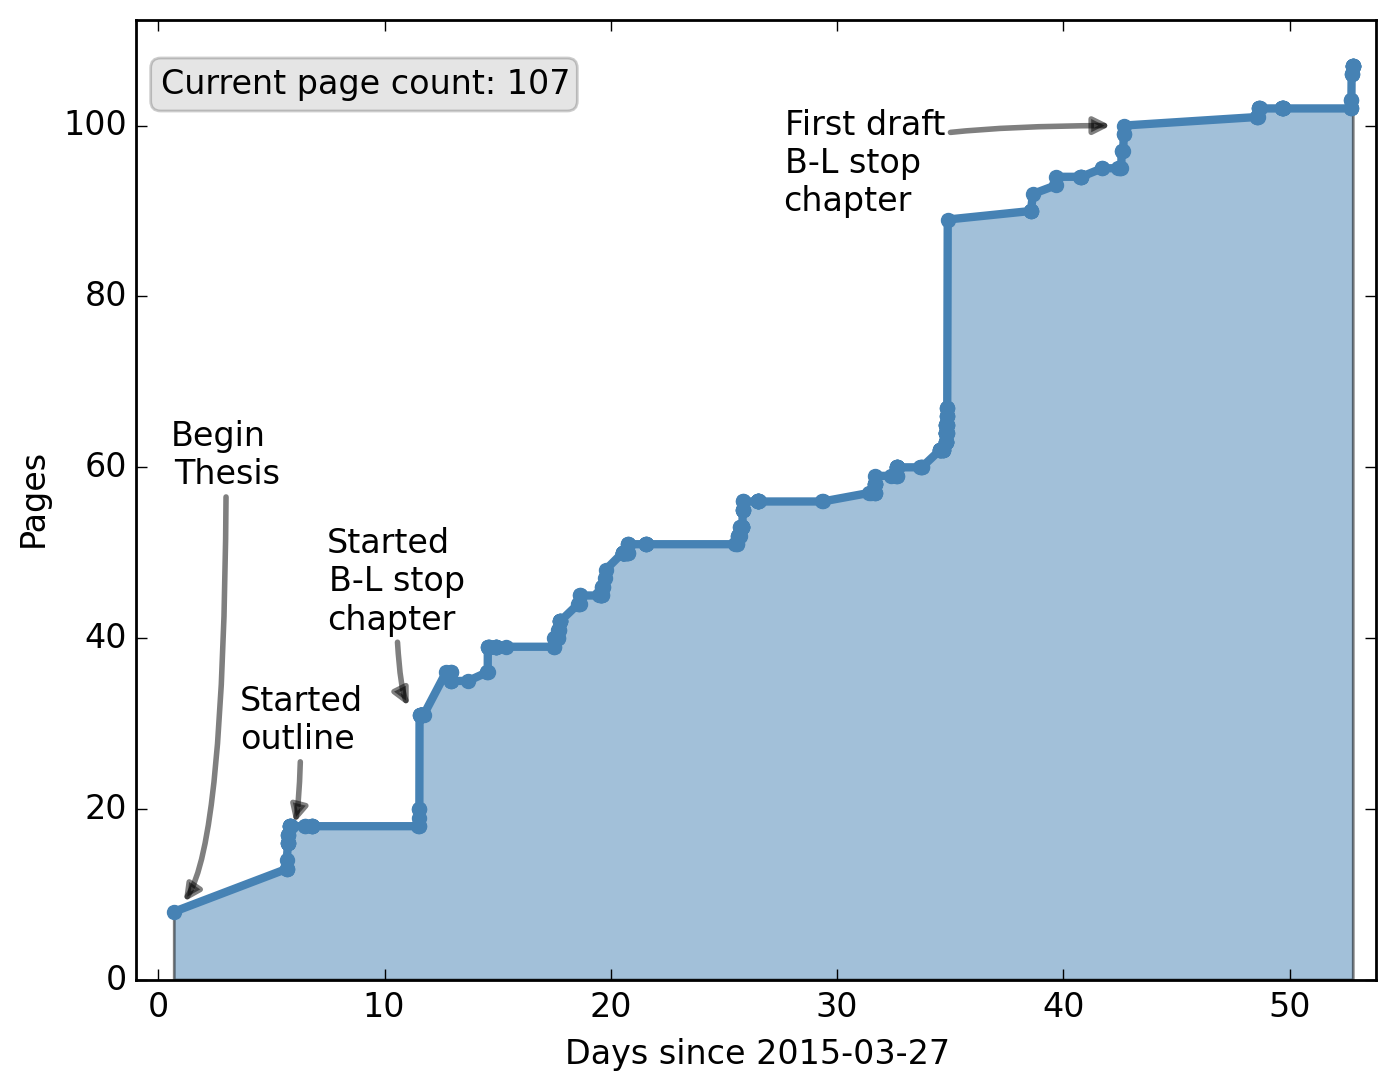
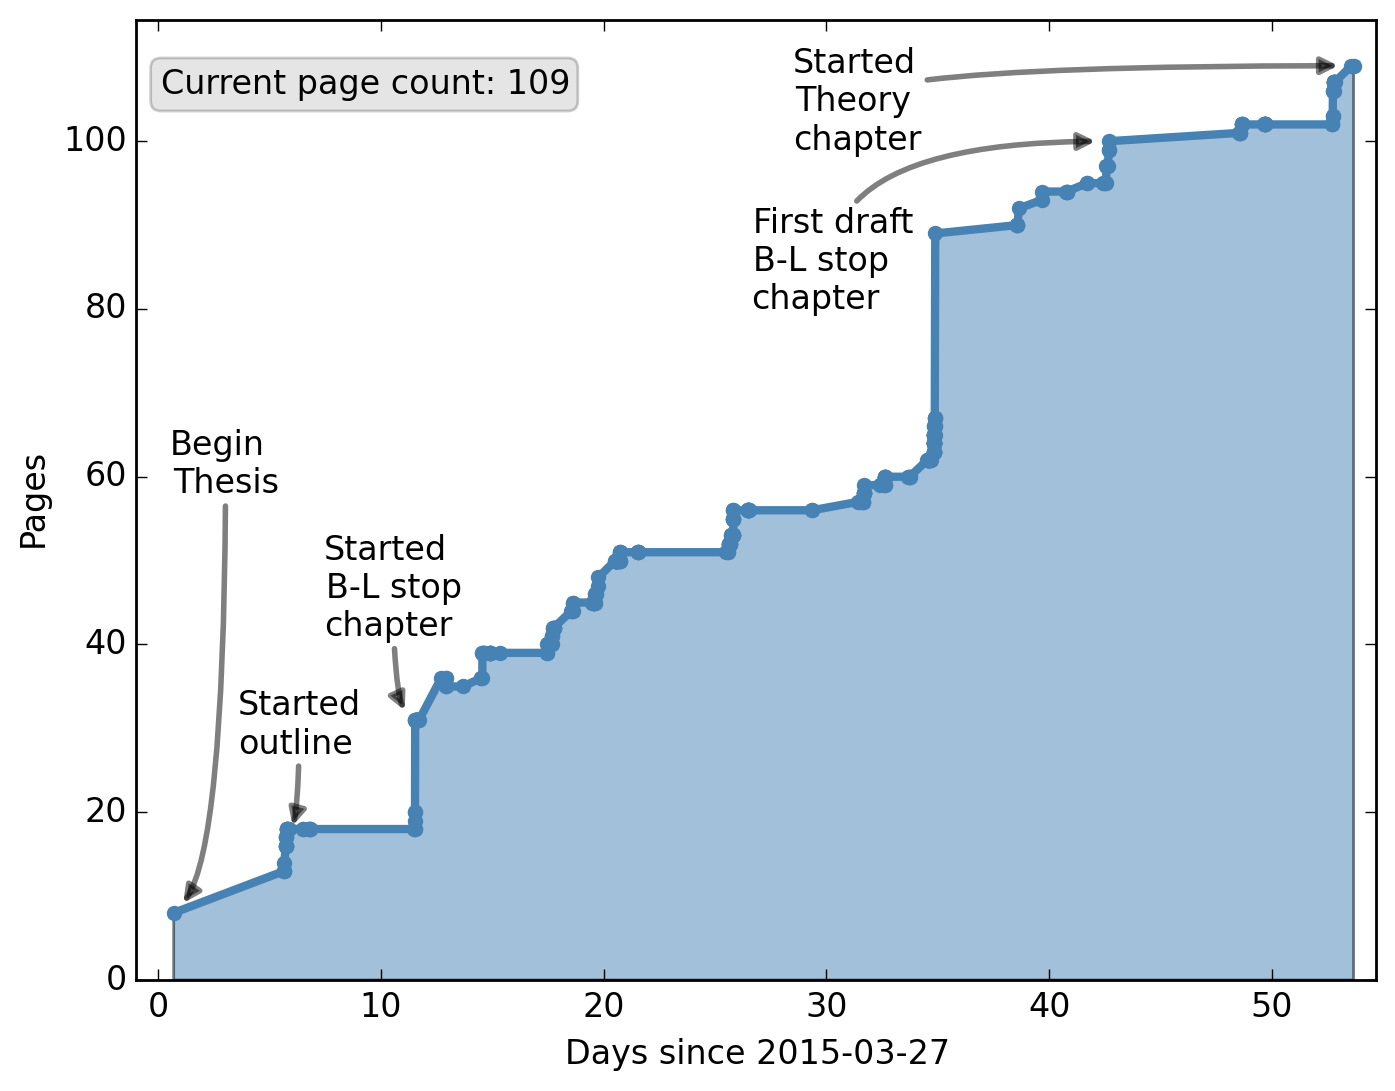
start theory section

diff --git a/tex/theory.tex b/tex/theory.tex
@@ -7,10 +7,13 @@
   writing this chapter!}
 
 {\color{red} Evelyn: 
-keep this brief by referencing as much as possible.  Certainly contrast
-assumption of RPC vs assumption of RPV for experimental searches.  Both are
-possibilities.  Stop as LSP does give unique (crazy?) signature not well
-tested by previous searches (include LQ exclusion plot).  Could have different
+keep this brief by referencing as much as possible.
+Certainly contrast assumption of RPC vs assumption of RPV for experimental
+searches.
+Both are possibilities.
+Stop as LSP does give unique (crazy?) signature not well
+tested by previous searches (include LQ exclusion plot).
+Could have different
 decay rates to e, mu, tau.
 }
 
@@ -23,9 +26,31 @@ decay rates to e, mu, tau.
 %% - - - - - - - - - - - - - - - - - - - - - - - - - - - - - - - - - - - - - - -
 \subsection{R-Parity}
 
+The extension of the Standard Model of particle physics with
+supersymmetry (SUSY)~\cite{Miyazawa:1966,Ramond:1971gb,Golfand:1971iw,
+Neveu:1971rx,Neveu:1971iv,Gervais:1971ji,Volkov:1973ix,Wess:1973kz,Wess:1974tw}
+immediately leads to processes that violate both baryon number ($B$) and
+lepton number ($L$), leading to rapid proton decay and
+lepton-number-violating processes, such as unseen decays of
+$\mu \rightarrow e\gamma$, in conflict with experimental bounds.
+A conventional assumption to prevent these processes is to impose
+conservation of $R$-parity~\cite{Fayet:1976et,Fayet:1977yc,Farrar:1978xj,
+Fayet:1979sa,Dimopoulos:1981zb},
+defined as $R=(-1)^{3(B-L)+2s}$ where $s$ is the spin of the particle.
+This has a value of $+1$ for Standard Model particles and $-1$ for
+SUSY particles.
+In this case SUSY particles are produced in pairs, and the
+lightest supersymmetric particle (LSP) is stable.
+Further, this stable LSP cannot carry electric charge or color charge without
+coming into conflict with astrophysical data.
+At the LHC, the conventional experimental signature for SUSY particles
+includes significant missing transverse momentum due to the non-interaction of
+the LSP with the detector.
+
 %% -----------------------------------------------------------------------------
 \section{B-L extension}
 \label{sec:theory_bl_extension}
+
 
 %% - - - - - - - - - - - - - - - - - - - - - - - - - - - - - - - - - - - - - - -
 \subsection{Motivation}
@@ -36,6 +61,19 @@ decay rates to e, mu, tau.
 \item Links neutrino sector to susy properties
 \end{itemize}
 }
+
+An alternative approach is to add a local symmetry $U(1)_{B-L}$ to the
+$SU(3)_C \times SU(2)_L \times U(1)_Y$ Standard Model with right-handed
+neutrinos.
+The minimal supersymmetric extension then only needs a vacuum expectation value
+for a right-handed sneutrino in order to spontaneously break the
+$B-L$ symmetry~\cite{FileviezPerez:2008sx, Barger:2008wn, FileviezPerez:2009gr,
+Everett:2009vy, Evans:1986ada, Lukas:1998yy, Braun:2005ux, Braun:2005nv,
+Braun:2006ae, Ambroso:2009jd, Ambroso:2010pe, Ovrut:2012wg}.
+This minimal $B-L$ model violates lepton number but not baryon number, and is
+consistent with proton stability and the bounds on lepton number violation.
+The LSP can now decay via $R$-parity-violating (RPV) processes, and may now
+carry color and electric charge.
 
 %% - - - - - - - - - - - - - - - - - - - - - - - - - - - - - - - - - - - - - - -
 \subsection{Phenomenology}
@@ -50,3 +88,15 @@ decay rates to e, mu, tau.
 \end{itemize}
 }
 
+This leads to unique signatures~\cite{FileviezPerez:2012mj, Perez:2013kla,
+Ovrut:2012wg, Ovrut:2014rba, Ovrut:2015uea} that are disallowed in conventional
+models with $R$-parity conservation.
+The case where the LSP is a scalar top (stop) is most interesting
+since, in general, the large mass of the top quark acts to make the
+lightest stop significantly lighter than the other squarks due to
+renormalization group effects~\cite{Barbieri:1987fn,deCarlos:1993yy}.
+The stop decays via an RPV interaction to a charged lepton (of any
+flavor) and a $b$-quark.
+The decay branching fractions to $e b$, $\mu b$, and $\tau b$ may be different
+in a manner related to the neutrino mass
+hierarchy~\cite{Marshall:2014cwa, Marshall:2014kea}.

diff --git a/scripts/plot_page_numbers.py b/scripts/plot_page_numbers.py
@@ -90,7 +90,11 @@ draw_annotation('Started\nB-L stop\nchapter',
 
 draw_annotation('First draft\nB-L stop\nchapter',
                 date_string='Fri May 8 18:15:22 CEST 2015',
-                offset_x=-15, offset_y=-10)
+                offset_x=-16, offset_y=-20)
+
+draw_annotation('Started\nTheory\nchapter',
+                date_string='Tue May 19 15:32:24 CEST 2015',
+                offset_x=-25, offset_y=-10)
 
 ## -----------------------------------------------------------------------------
 # save the figure to a pdf

diff --git a/PageNumbers.md b/PageNumbers.md
@@ -340,3 +340,5 @@ Mon May 18 20:57:02 CEST 2015 , 107
 Mon May 18 21:08:43 CEST 2015 , 107
 Mon May 18 21:16:27 CEST 2015 , 107
 Mon May 18 21:22:14 CEST 2015 , 107
+Tue May 19 15:32:24 CEST 2015 , 109
+Tue May 19 17:54:46 CEST 2015 , 109
